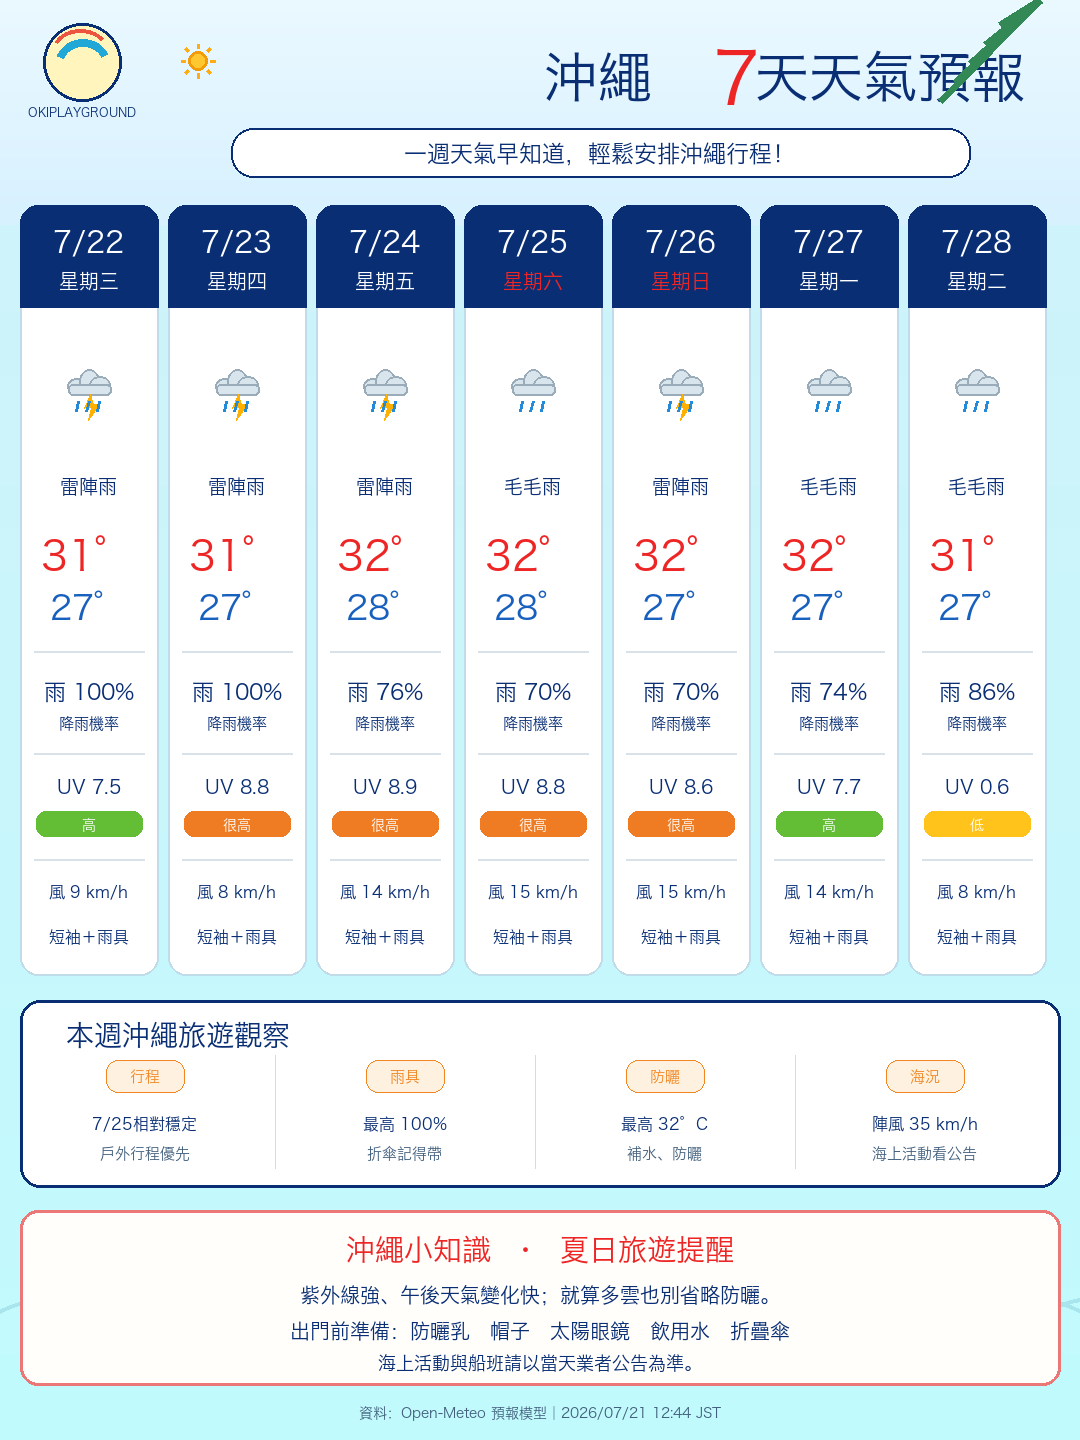
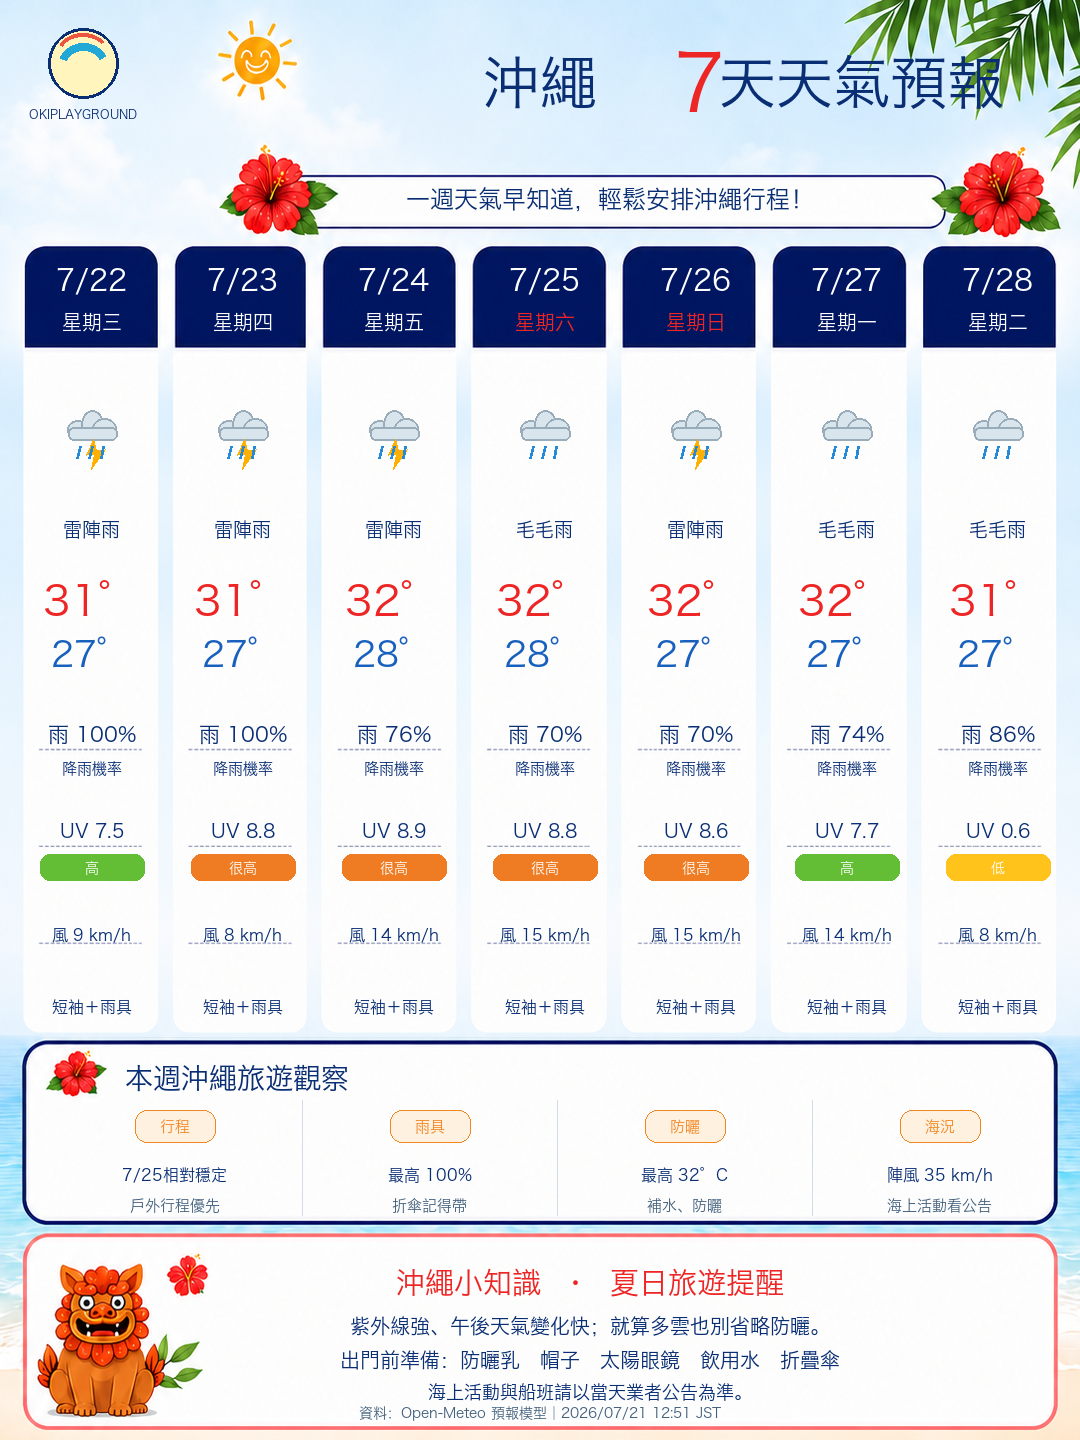
design(okiplayground): use AI illustrated weather poster template

diff --git a/weather/index.html b/weather/index.html
@@ -1,4 +1,4 @@
-<!doctype html><html lang="zh-Hant"><meta charset="utf-8"><meta name="viewport" content="width=device-width,initial-scale=1"><title>OKIPLAYGROUND｜沖繩一週天氣速報</title><style>body{margin:0;background:#e3f6ff;color:#082d72;font-family:-apple-system,BlinkMacSystemFont,"Noto Sans TC",sans-serif}main{max-width:900px;margin:auto;padding:32px 18px 60px}section{background:#fff;border-radius:20px;padding:22px;margin:18px 0;box-shadow:0 5px 18px #6094aa33}h1{margin:.1em 0;text-align:center}.sub{text-align:center;color:#42607d}img{width:100%;border-radius:14px}a.button{display:inline-block;background:#ed2524;color:white;padding:12px 20px;border-radius:99px;text-decoration:none;font-weight:700;margin:4px 6px 4px 0}pre{white-space:pre-wrap;font:15px/1.75 inherit;color:#243a56;background:#f3f8fb;padding:18px;border-radius:12px}table{width:100%;border-collapse:collapse;color:#243a56}td,th{padding:9px;border-bottom:1px solid #dae5ea;text-align:left}small{color:#58718a}</style><main><h1>🌺 OKIPLAYGROUND 沖繩一週天氣速報</h1><p class="sub">每週二 01:58（JST）自動更新｜本次生成：2026/07/21 12:44 JST</p><section><img src="okinawa-weather-2026-07-22_to_2026-07-29.png" alt="沖繩七日天氣預報"><p><a class="button" href="okinawa-weather-2026-07-22_to_2026-07-29.png" download>下載預報圖 PNG</a><a class="button" href="caption.txt" download>下載帖文 TXT</a></p></section><section><h2>可直接貼上的文案</h2><pre>🌦️ 陽光與驟雨交織：一週天氣速報 ☀️🌺
+<!doctype html><html lang="zh-Hant"><meta charset="utf-8"><meta name="viewport" content="width=device-width,initial-scale=1"><title>OKIPLAYGROUND｜沖繩一週天氣速報</title><style>body{margin:0;background:#e3f6ff;color:#082d72;font-family:-apple-system,BlinkMacSystemFont,"Noto Sans TC",sans-serif}main{max-width:900px;margin:auto;padding:32px 18px 60px}section{background:#fff;border-radius:20px;padding:22px;margin:18px 0;box-shadow:0 5px 18px #6094aa33}h1{margin:.1em 0;text-align:center}.sub{text-align:center;color:#42607d}img{width:100%;border-radius:14px}a.button{display:inline-block;background:#ed2524;color:white;padding:12px 20px;border-radius:99px;text-decoration:none;font-weight:700;margin:4px 6px 4px 0}pre{white-space:pre-wrap;font:15px/1.75 inherit;color:#243a56;background:#f3f8fb;padding:18px;border-radius:12px}table{width:100%;border-collapse:collapse;color:#243a56}td,th{padding:9px;border-bottom:1px solid #dae5ea;text-align:left}small{color:#58718a}</style><main><h1>🌺 OKIPLAYGROUND 沖繩一週天氣速報</h1><p class="sub">每週二 01:58（JST）自動更新｜本次生成：2026/07/21 12:51 JST</p><section><img src="okinawa-weather-2026-07-22_to_2026-07-29.png" alt="沖繩七日天氣預報"><p><a class="button" href="okinawa-weather-2026-07-22_to_2026-07-29.png" download>下載預報圖 PNG</a><a class="button" href="caption.txt" download>下載帖文 TXT</a></p></section><section><h2>可直接貼上的文案</h2><pre>🌦️ 陽光與驟雨交織：一週天氣速報 ☀️🌺
 
 島上盛夏模式持續發威，白天高溫約 31～32°C。後半週有局部陣雨變數，出門在外記得在防曬與防雨模式之間隨時切換。💦🕶️✨
 

diff --git a/tools/generate_okiplayground_weather.py b/tools/generate_okiplayground_weather.py
@@ -25,6 +25,7 @@ from PIL import Image, ImageDraw, ImageFont
 
 ROOT = Path(__file__).resolve().parents[1]
 OUTPUT = ROOT / "weather"
+AI_TEMPLATE = OUTPUT / "assets" / "okiplayground-weekly-template-ai.png"
 TZ = ZoneInfo("Asia/Tokyo")
 LATITUDE, LONGITUDE = 26.2124, 127.6809  # Okinawa City
 WEEKDAYS = "一二三四五六日"
@@ -153,68 +154,46 @@ def draw_condition(draw, x, y, kind, size=42):
 
 
 def generate_image(days: list[dict], target: Path) -> None:
-    """Render the established seven-column OKIPLAYGROUND poster format."""
+    """Fill an AI-illustrated poster background with deterministic forecast data."""
+    if not AI_TEMPLATE.exists():
+        raise RuntimeError(f"找不到 AI 天氣模板：{AI_TEMPLATE}")
     days = days[:7]
     width, height = 1080, 1440
-    image = Image.new("RGB", (width, height), "#dff5ff")
+    image = Image.open(AI_TEMPLATE).convert("RGB").resize((width, height), Image.Resampling.LANCZOS)
     draw = ImageDraw.Draw(image)
-    # Tropical sky, sea and foliage — deliberately follows the existing poster layout.
-    for y in range(height):
-        if y < 225:
-            blend = y / 225
-            color = (int(235 - 20*blend), int(249 - 8*blend), 255)
-        else:
-            blend = min(1, (y - 225) / (height - 225))
-            color = (int(207 - 14*blend), int(243 + 8*blend), int(250 + 4*blend))
-        draw.line((0, y, width, y), fill=color)
-    for x in range(-50, width + 120, 95):
-        draw.arc((x, 1295, x+230, 1460), 200, 340, fill="#a9e5ec", width=4)
-
     navy, red, orange = "#092e74", "#ed2524", "#f18622"
-    # Compact brand mark, leaving the same generous title area as the supplied template.
-    draw.ellipse((43, 23, 121, 101), fill="#fff5bd", outline=navy, width=3)
-    draw.arc((55, 39, 110, 90), 200, 335, fill="#22a8d6", width=8)
-    draw.arc((52, 29, 108, 73), 205, 325, fill="#ee5540", width=4)
-    centered(draw, (82, 112), "OKIPLAYGROUND", font(12, True), navy)
-    centered(draw, (598, 77), "沖繩", font(54, True), navy)
-    centered(draw, (737, 77), "7", font(72, True), red)
-    centered(draw, (890, 77), "天天氣預報", font(54, True), navy)
-    rounded(draw, (231, 128, 970, 177), 22, "#ffffff", outline=navy, width=2)
-    centered(draw, (600, 153), "一週天氣早知道，輕鬆安排沖繩行程！", font(23, True), navy)
-    draw_sun(draw, 198, 61, 17)
-    for i in range(5):
-        draw.line((1040, 0, 1000-i*15, 25+i*19), fill="#338955", width=7)
+    # Header: the AI template intentionally has no text, so Traditional Chinese stays correct every week.
+    draw.ellipse((48, 28, 118, 98), fill="#fff5bd", outline=navy, width=3)
+    draw.arc((58, 43, 108, 88), 200, 335, fill="#22a8d6", width=8)
+    draw.arc((57, 33, 108, 73), 205, 325, fill="#ee5540", width=4)
+    centered(draw, (83, 114), "OKIPLAYGROUND", font(12, True), navy)
+    centered(draw, (540, 82), "沖繩", font(57, True), navy)
+    centered(draw, (700, 82), "7", font(78, True), red)
+    centered(draw, (862, 82), "天天氣預報", font(57, True), navy)
+    centered(draw, (610, 198), "一週天氣早知道，輕鬆安排沖繩行程！", font(24, True), navy)
 
-    card_w, card_h, gap, start_x, y = 138, 770, 10, 20, 205
+    card_w, gap, start_x, y = 134, 17, 25, 246
     for idx, day in enumerate(days):
         x = start_x + idx * (card_w + gap)
-        rounded(draw, (x, y, x+card_w, y+card_h), 18, "#ffffff", outline="#c0dce9", width=2)
-        rounded(draw, (x, y, x+card_w, y+102), 18, navy)
-        draw.rectangle((x, y+70, x+card_w, y+102), fill=navy)
         dt = date.fromisoformat(day["time"])
         weekday = WEEKDAYS[dt.weekday()]
-        centered(draw, (x+card_w/2, y+37), f"{dt.month}/{dt.day}", font(29, True), "#ffffff")
+        centered(draw, (x+card_w/2, y+34), f"{dt.month}/{dt.day}", font(29, True), "#ffffff")
         centered(draw, (x+card_w/2, y+76), f"星期{weekday}", font(20, True), red if weekday in "六日" else "#ffffff")
         label, kind = weather_label(int(day["weather_code"]))
-        draw_condition(draw, x+card_w/2, y+178, kind, 27)
-        centered(draw, (x+card_w/2, y+282), label, font(19, True), navy)
-        centered(draw, (x+card_w/2, y+350), f"{round(day['temperature_2m_max'])}°", font(41, True), red)
-        centered(draw, (x+card_w/2, y+402), f"{round(day['temperature_2m_min'])}°", font(34, True), "#1760bd")
-        draw.line((x+14, y+446, x+card_w-14, y+446), fill="#d8e2e8", width=2)
-        centered(draw, (x+card_w/2, y+486), f"雨 {round(day['precipitation_probability_max'])}%", font(22, True), navy)
-        centered(draw, (x+card_w/2, y+518), "降雨機率", font(15, True), navy)
-        draw.line((x+14, y+548, x+card_w-14, y+548), fill="#d8e2e8", width=2)
-        centered(draw, (x+card_w/2, y+582), f"UV {day['uv_index_max']:.1f}", font(19, True), navy)
+        draw_condition(draw, x+card_w/2, y+180, kind, 31)
+        centered(draw, (x+card_w/2, y+284), label, font(19, True), navy)
+        centered(draw, (x+card_w/2, y+354), f"{round(day['temperature_2m_max'])}°", font(42, True), red)
+        centered(draw, (x+card_w/2, y+408), f"{round(day['temperature_2m_min'])}°", font(35, True), "#1760bd")
+        centered(draw, (x+card_w/2, y+488), f"雨 {round(day['precipitation_probability_max'])}%", font(21, True), navy)
+        centered(draw, (x+card_w/2, y+522), "降雨機率", font(15, True), navy)
+        centered(draw, (x+card_w/2, y+585), f"UV {day['uv_index_max']:.1f}", font(19, True), navy)
         uv_fill = "#ef7c22" if day["uv_index_max"] >= 8 else "#63be36" if day["uv_index_max"] >= 6 else "#ffc31b"
-        rounded(draw, (x+16, y+606, x+card_w-16, y+631), 10, uv_fill)
-        centered(draw, (x+card_w/2, y+619), uv_label(day["uv_index_max"]), font(14, True), "#ffffff")
-        draw.line((x+14, y+654, x+card_w-14, y+654), fill="#d8e2e8", width=2)
-        centered(draw, (x+card_w/2, y+686), f"風 {round(day['wind_speed_10m_max'])} km/h", font(16, True), navy)
+        rounded(draw, (x+15, y+608, x+card_w-15, y+634), 10, uv_fill)
+        centered(draw, (x+card_w/2, y+621), uv_label(day["uv_index_max"]), font(14, True), "#ffffff")
+        centered(draw, (x+card_w/2, y+688), f"風 {round(day['wind_speed_10m_max'])} km/h", font(16, True), navy)
         clothing = "短袖＋雨具" if day["precipitation_probability_max"] >= 40 else "短袖＋防曬"
-        centered(draw, (x+card_w/2, y+731), clothing, font(16, True), navy)
+        centered(draw, (x+card_w/2, y+760), clothing, font(16, True), navy)
 
-    rounded(draw, (20, 1000, 1060, 1187), 20, "#ffffff", outline=navy, width=3)
-    centered(draw, (66, 1035), "本週沖繩旅遊觀察", font(28, True), navy, "lm")
     rainiest = max(days, key=lambda x: x["precipitation_probability_max"])
     hottest = max(days, key=lambda x: x["temperature_2m_max"])
     windiest = max(days, key=lambda x: x["wind_gusts_10m_max"])
@@ -225,19 +204,19 @@ def generate_image(days: list[dict], target: Path) -> None:
         ("防曬", f"最高 {round(hottest['temperature_2m_max'])}°C", "補水、防曬"),
         ("海況", f"陣風 {round(windiest['wind_gusts_10m_max'])} km/h", "海上活動看公告"),
     ]
+    centered(draw, (125, 1078), "本週沖繩旅遊觀察", font(28, True), navy, "lm")
     for i, (tag, line1, line2) in enumerate(notes):
-        cx = 145 + i * 260
-        rounded(draw, (cx-39, 1060, cx+39, 1092), 12, "#fff1df", outline=orange, width=1)
-        centered(draw, (cx, 1076), tag, font(15, True), orange)
-        centered(draw, (cx, 1123), line1, font(16, True), navy)
-        centered(draw, (cx, 1153), line2, font(15), "#42607d")
+        cx = 175 + i * 255
+        rounded(draw, (cx-40, 1110, cx+40, 1142), 12, "#fff1df", outline=orange, width=1)
+        centered(draw, (cx, 1126), tag, font(15, True), orange)
+        centered(draw, (cx, 1174), line1, font(16, True), navy)
+        centered(draw, (cx, 1205), line2, font(15), "#42607d")
         if i < 3:
-            draw.line((cx+130, 1055, cx+130, 1168), fill="#d3dce6", width=1)
-    rounded(draw, (20, 1210, 1060, 1385), 18, "#fffefb", outline="#ec7777", width=3)
-    centered(draw, (540, 1250), "沖繩小知識  ·  夏日旅遊提醒", font(29, True), red)
-    centered(draw, (540, 1295), "紫外線強、午後天氣變化快；就算多雲也別省略防曬。", font(20, True), navy)
-    centered(draw, (540, 1331), "出門前準備：防曬乳　帽子　太陽眼鏡　飲用水　折疊傘", font(20, True), navy)
-    centered(draw, (540, 1363), "海上活動與船班請以當天業者公告為準。", font(18), navy)
+            draw.line((cx+127, 1100, cx+127, 1215), fill="#d3dce6", width=1)
+    centered(draw, (590, 1283), "沖繩小知識  ·  夏日旅遊提醒", font(29, True), red)
+    centered(draw, (590, 1326), "紫外線強、午後天氣變化快；就算多雲也別省略防曬。", font(20, True), navy)
+    centered(draw, (590, 1360), "出門前準備：防曬乳　帽子　太陽眼鏡　飲用水　折疊傘", font(20, True), navy)
+    centered(draw, (590, 1392), "海上活動與船班請以當天業者公告為準。", font(18), navy)
     centered(draw, (width/2, 1412), "資料：Open-Meteo 預報模型｜" + datetime.now(TZ).strftime("%Y/%m/%d %H:%M JST"), font(14), "#42607d")
     target.parent.mkdir(parents=True, exist_ok=True)
     image.save(target, "PNG", optimize=True)